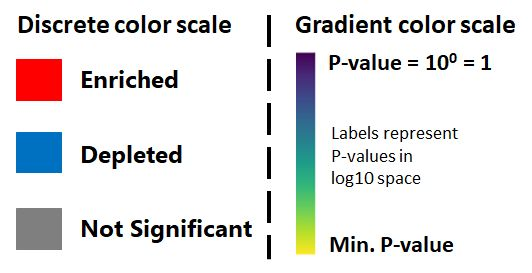
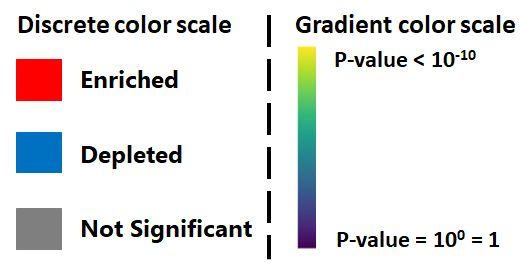
tweak gradient heatmap

diff --git a/magnet_app/helper.py b/magnet_app/helper.py
@@ -155,7 +155,6 @@ def form_processing(request, form):
         user_background = [b.strip().upper() for b in user_background]
     else:
         user_background = [g.ensembl_id for g in Gene.objects.all()]
-        print(user_background)
 
 
     if user_dataset_upload:
@@ -423,7 +422,10 @@ def dash_generate_heatmaps(dataset_df, is_user,
             hd=[]
             if gradient_check:
                 for p in ps:
-                    hd.append(np.log10(p))
+                    if p == 0:
+                        hd.append(-10)
+                    else:
+                        hd.append(np.log10(p))
             else:
                 for p in ps:
                     if p < low_dict[low_cutoff]:
@@ -454,7 +456,7 @@ def dash_generate_heatmaps(dataset_df, is_user,
         if gradient_check:
             colorscale = "Viridis"
             reversescale=True
-            showscale=True
+            showscale=False
         else:
             colorscale = dash_heatmap_colorscale(heatmap_data)
             reversescale=False
@@ -477,6 +479,8 @@ def dash_generate_heatmaps(dataset_df, is_user,
                         ))
 
         fig.update_traces(colorbar_thickness=15, selector=dict(type='heatmap'))
+        if gradient_check:
+            fig.update_traces(zmin=-10,zmax=0.5)
         fig.update_layout(
             xaxis={'title':'Dataset Gene Sets', 'title_font_size':14, 'tickfont_size':15},
             yaxis={'title':'Query Gene Lists', 'title_font_size':14, 'tickfont_size':15},
